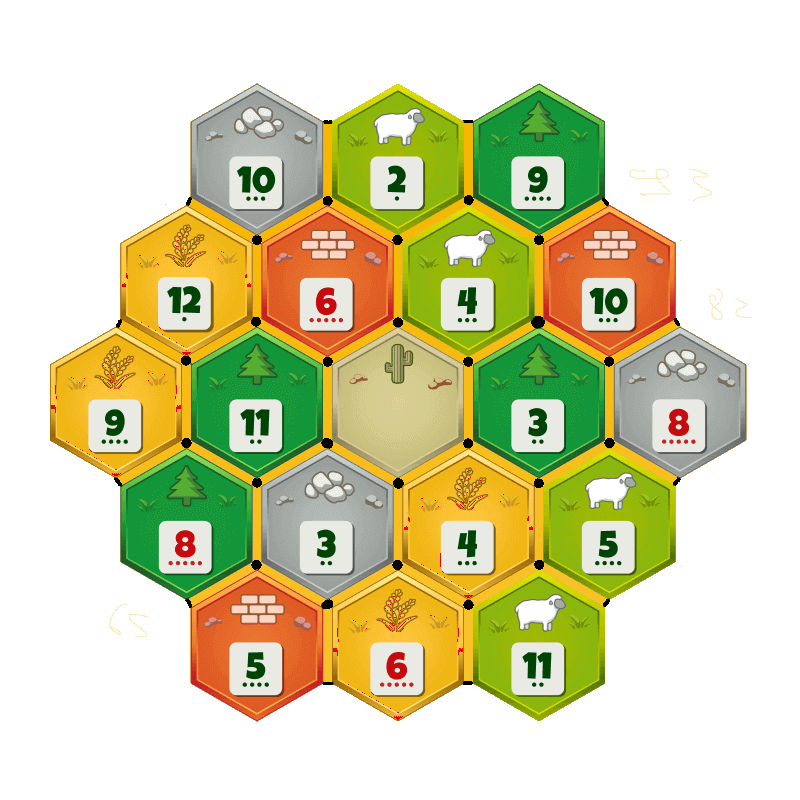
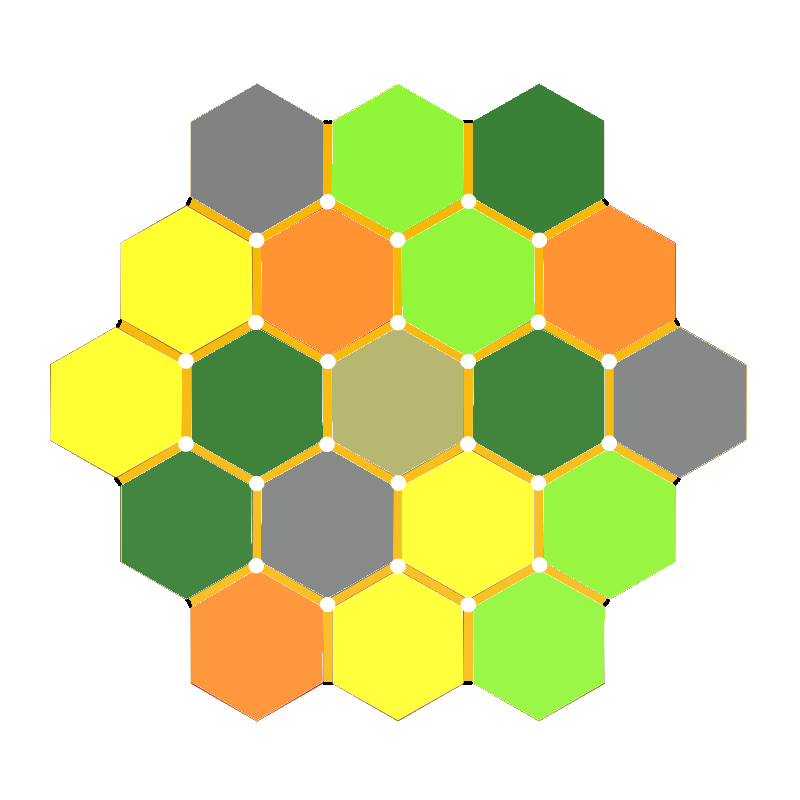
gameboard modficata ccon codifica vertici, esagoni e spigoli, piu codice

diff --git a/Progetto_Catan/board.cpp b/Progetto_Catan/board.cpp
@@ -17,13 +17,14 @@ void assegnazione_numeri() {
 //identificatore biomi: canale alfa 210 a scendere
 //tipo numero colore
 void scegli_bioma(int i, int j, int counter) {
-    int a = 0;
+    bool a = 0;
     while (a == 0) {
         int numerocasuale = std::rand() % 19;
         if (numeri[numerocasuale]->assegnato != 1) {
-            bioma * test = new bioma(tipo[numerocasuale], numeri[numerocasuale]->num,colori[numerocasuale]);
+            bioma * test = new bioma(tipo[counter], numeri[numerocasuale]->num,colori[counter]);
             mappa[i][j] = test;
             numeri[numerocasuale]->assegnato = 1;
+            a = true;
         }
     }
 }
@@ -71,7 +72,7 @@ void inizializzazione_board() {
                 counter++;
                 break;
             case 'v':
-                coso * test = new coso('l', i);//identificatore vertice da fare
+                coso * test = new coso('l', i);//identificatore verticei: 190 in giu
                 board[i][j] = test;
                 break;
             }
@@ -79,13 +80,7 @@ void inizializzazione_board() {
         std::cout << "board inizializzata";
     }
 }
-/*
-posizione stampa esagono 1: 190,83
-delta x = 141
 
-per file sfasate:
-120,205
-*/
 void print() {
     sf::Texture arancione;
     arancione.loadFromFile("./media/arancione.png");

diff --git a/Progetto_Catan/header.h b/Progetto_Catan/header.h
@@ -21,15 +21,15 @@ char griglia[righe][colonne] = {
 		{'o','o','o','o','o','o','o','o','o','o','o','o','o','o','o','o','o','o','o','o','o'},
 };
 int colori[19] = {210,209,208,207,206,205,204,203,202,201,200,199,198,197,196,195,194,193,192};
-int tipo[19] = { };
+int tipo[19] = {4,    3,   1,   5,  2,  3,  2,  5,  1,  6,  1,  4,  1,  4,  5,  3,  2,  5,  3};
 /*
 biomi: 1-5 biomi normali e 6 deserto, paralleli al tipo di risorsa
-1: legno verdescuro
-2: mattoni arancione
-3: LE PECORE verdechiaro
-4: iron grigio
-5: grano giallo qualcosa del genere 
-6: deserto
+1: legno verdescuro   
+2: mattoni arancione  
+3: LE PECORE verdechiaro 
+4: iron grigio 
+5: grano giallo qualcosa del genere  
+6: deserto 
 */
 
 int griglia[5][10] = {
